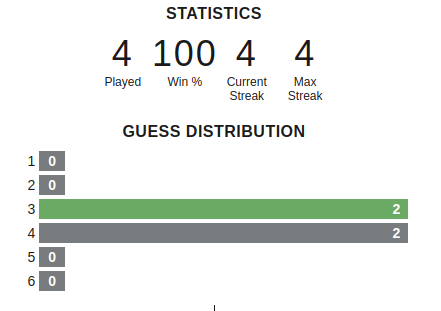
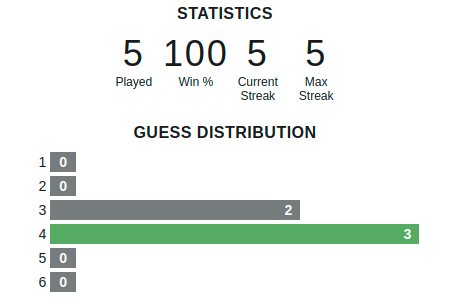
update 22 jan 22

diff --git a/README.md b/README.md
@@ -50,3 +50,10 @@
 🟨⬜⬜⬜⬜<br/>
 ⬜⬜🟩⬜⬜<br/>
 🟩🟩🟩🟩🟩<br/>
+
+22/01/22: Wordle 217 4/6
+
+🟨⬜⬜🟨⬜<br/>
+🟨⬜🟨⬜🟩<br/>
+🟨🟩⬜🟩🟩<br/>
+🟩🟩🟩🟩🟩<br/>
